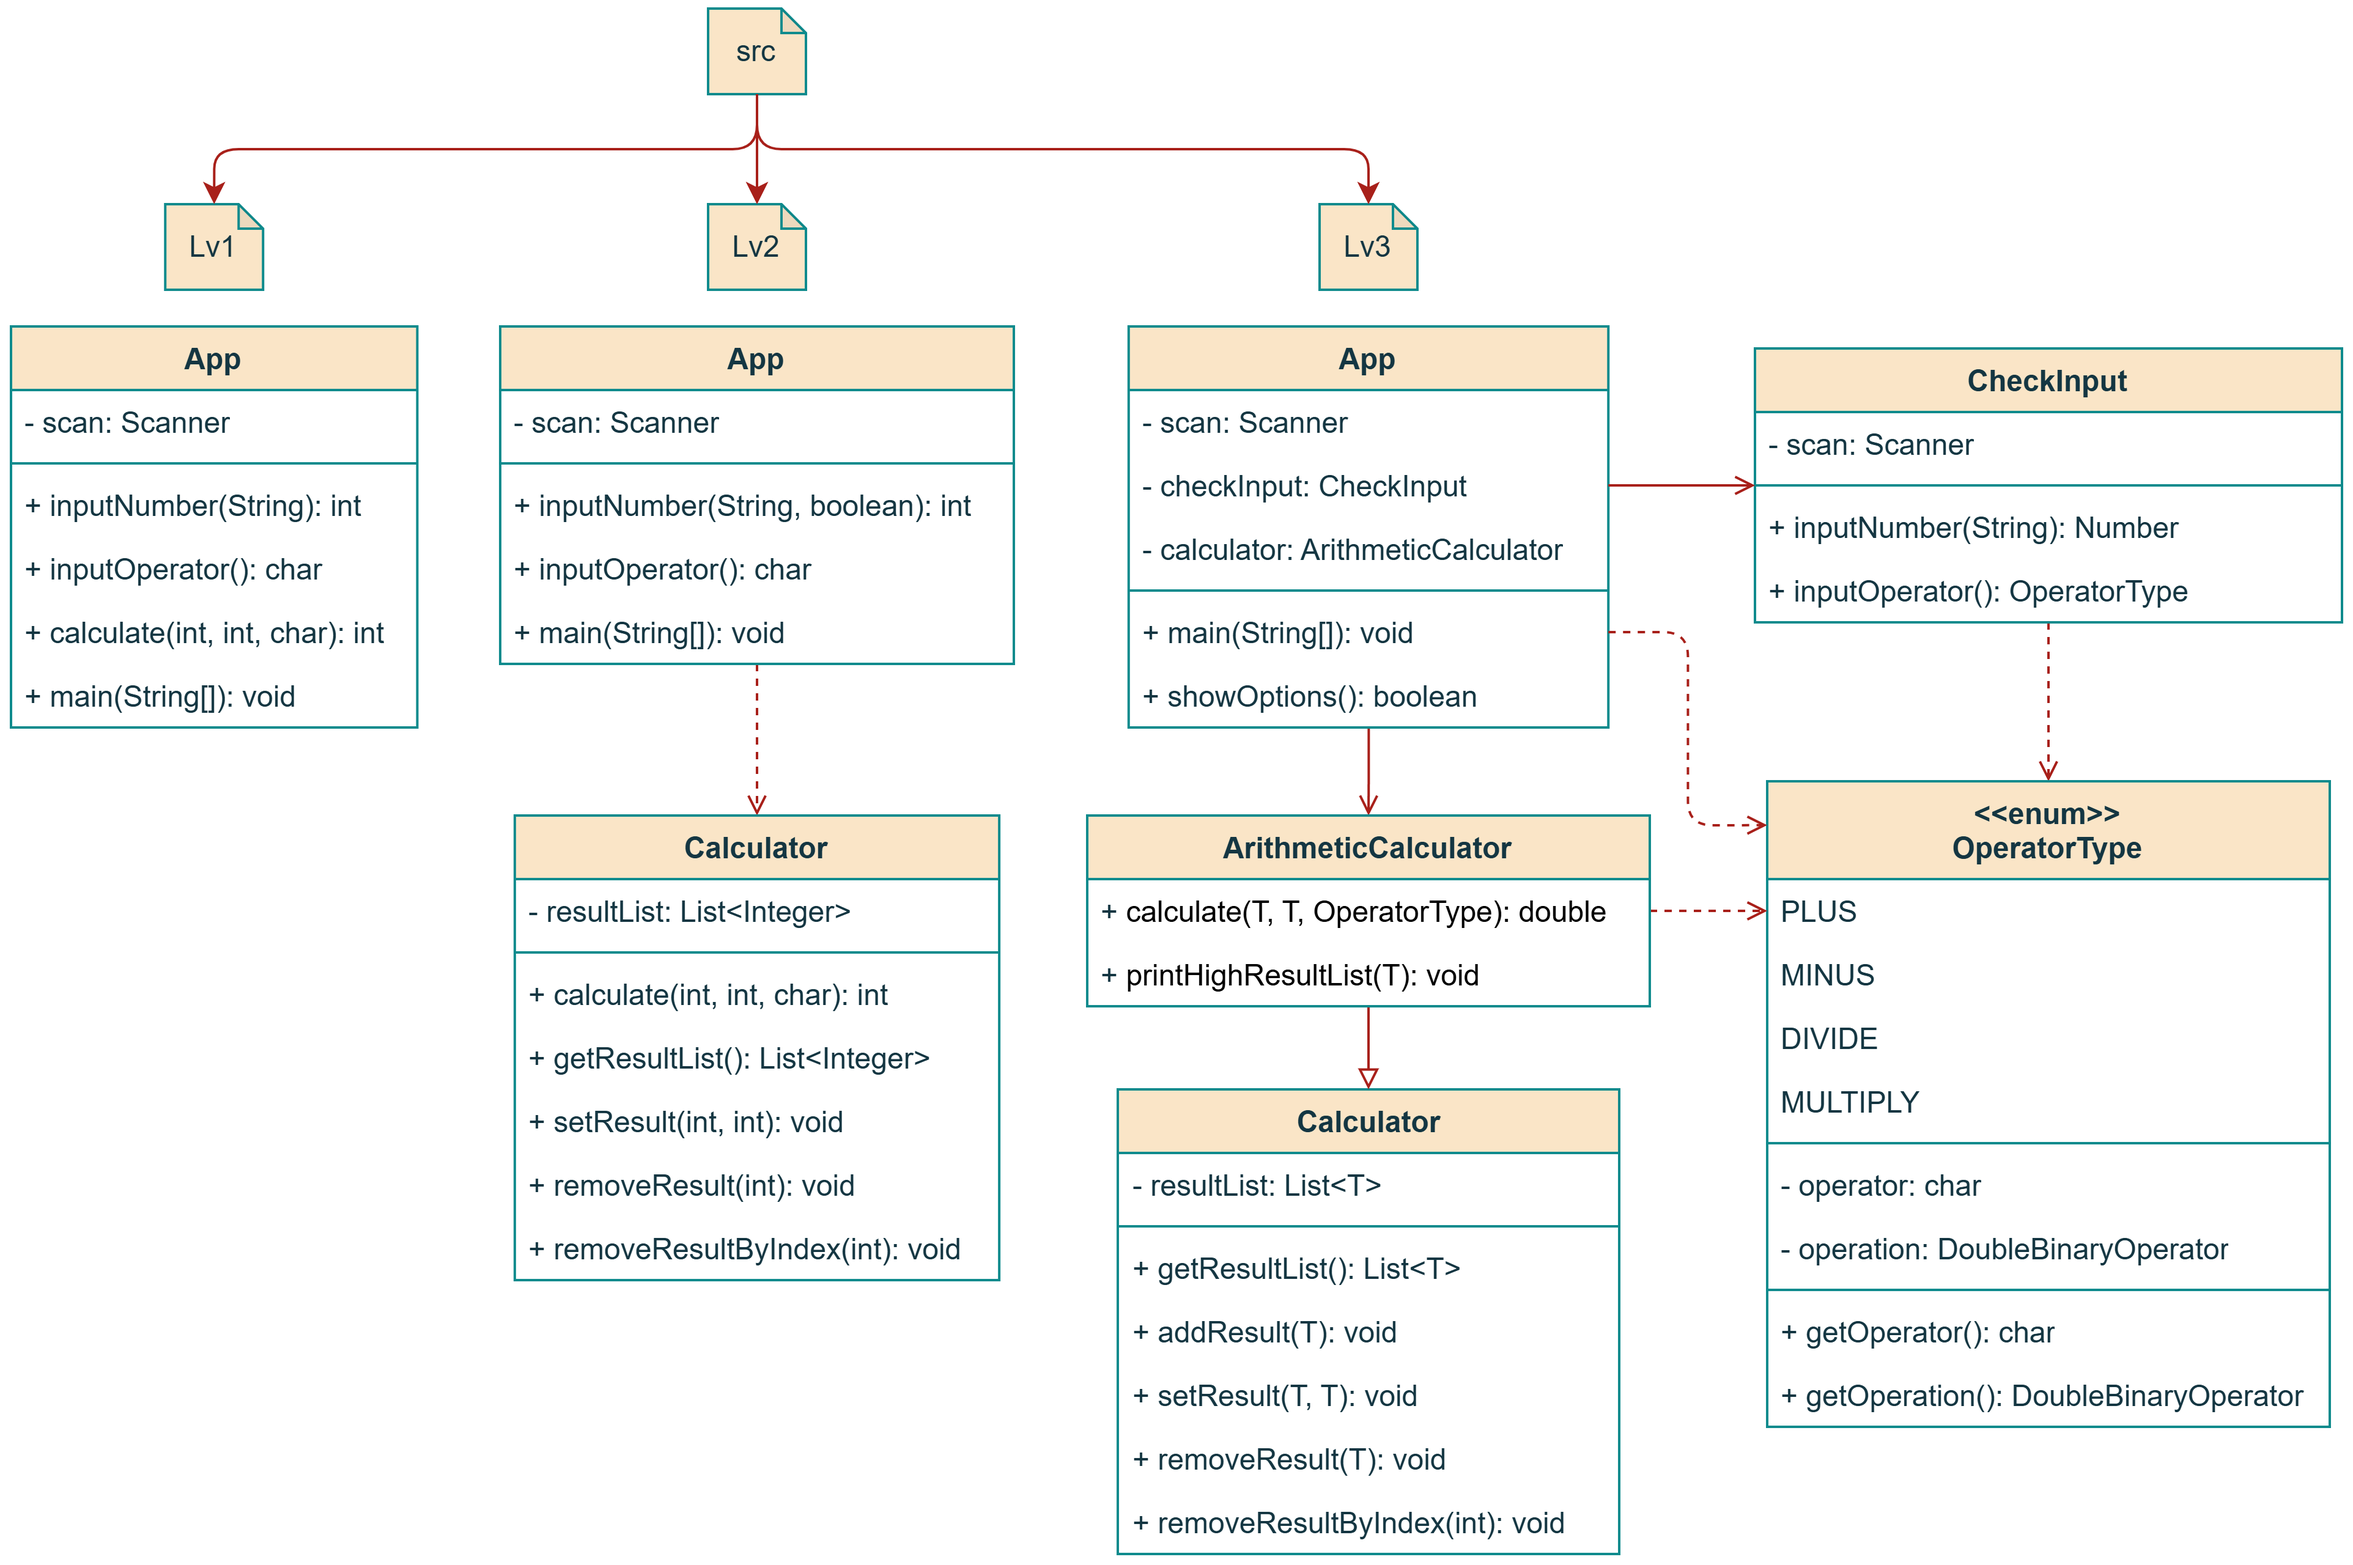
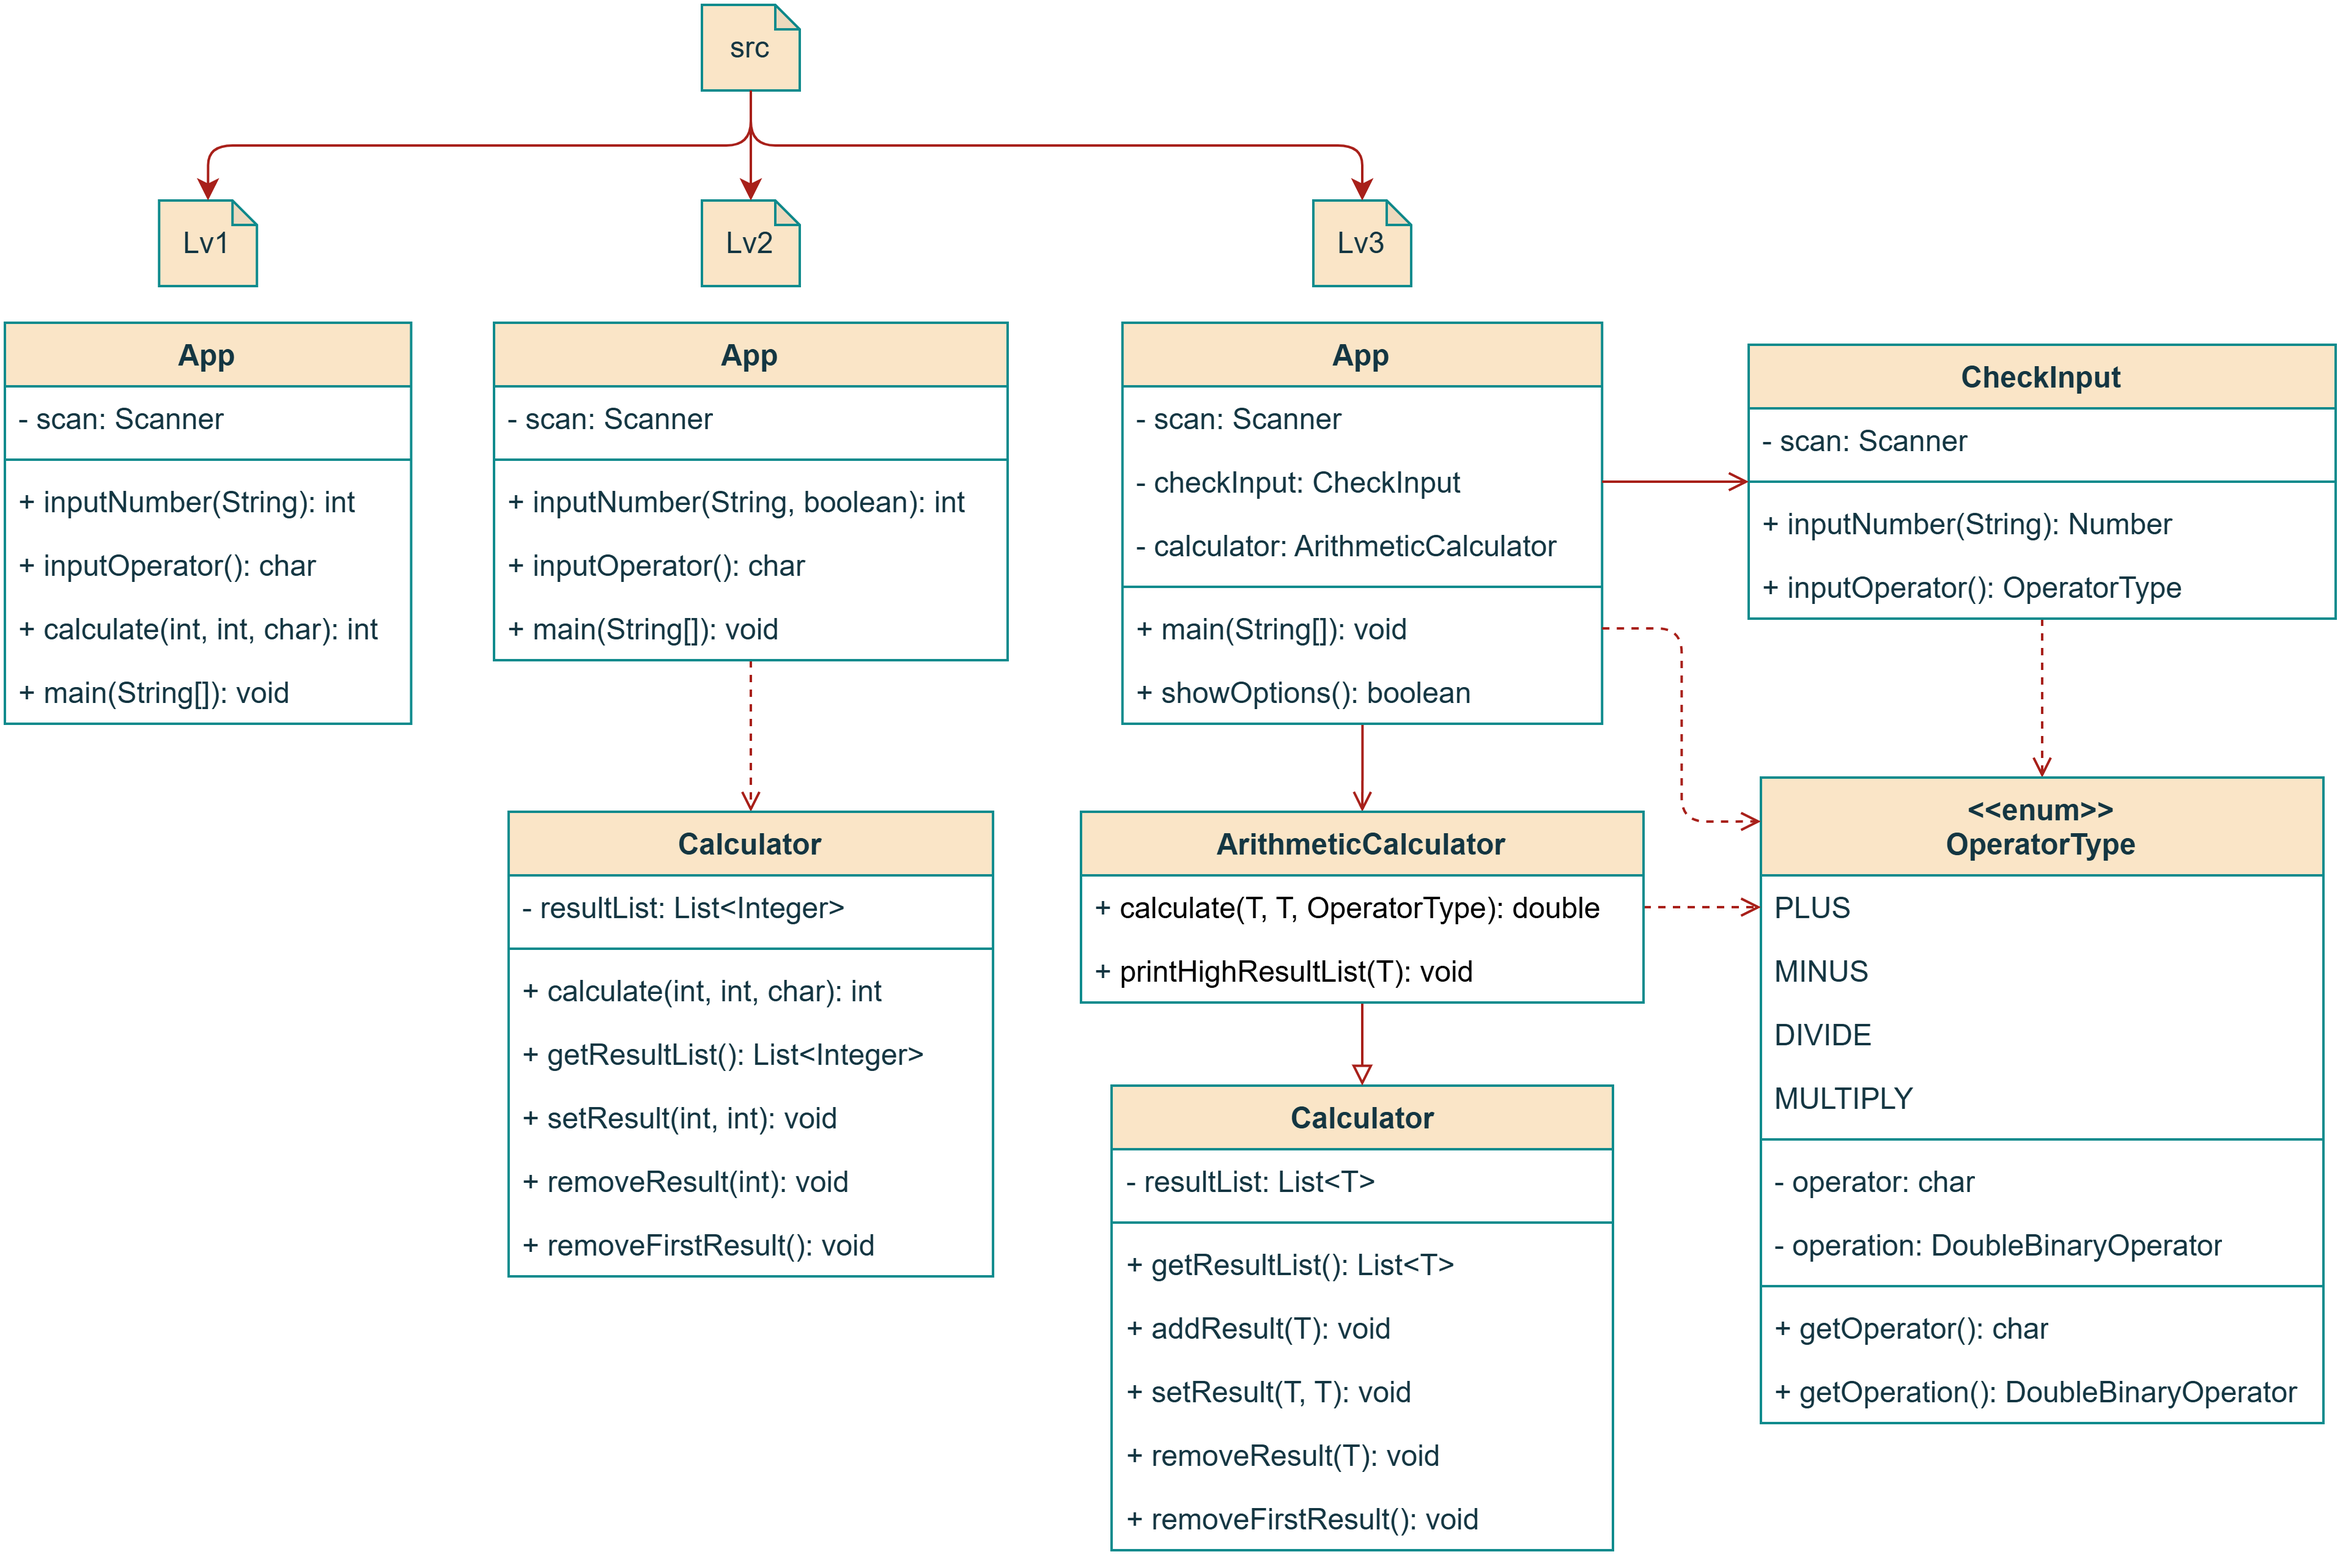
:memo: docs(README): first 기능 설명 추가 및 변경

diff --git a/README.md b/README.md
@@ -22,7 +22,7 @@
 4. `exit`를 입력하기 전까지 무한으로 계산을 진행된다.
     - 아무것도 입력 안 하면 계속 계산을 진행된다.
     - 추가 기능은 3가지다. 이를 수행하는 동안 계속 반복된다.
-    - `show`는 결과 확인하기, `set`는 결과 변경하기, `remove`는 결과 삭제하기 기능
+    - `show`는 결과 확인하기, `set`는 결과 변경하기, `remove`는 결과 삭제하기, `first`는 가장 먼저 저장된 결과 삭제하기 기능
 
 ### 요구사항
 - `Lv1`
@@ -30,12 +30,16 @@
     - `charAt(0)`을 사용하여 **사칙연산 기호**(+,-,*,/)를 입력받는다.
     - `if` or `switch`를 사용해서 **각 연산자에 맞는 연산**을 수행한다.
     - `exit` 를 입력받기 전까지 **반복적으로 계산기 기능을 수행**한다.
+
+
 - `Lv2`
     - `Calculator` 클래스를 생성해서, 사칙연산을 수행한 후, **결과값을 반환하는 메서드** 구현한다.
     - `Calculator` 클래스에서 **연산 결과를 저장하는 컬렉션 타입 필드**를 생성한다.
     - `App` 클래스의 `main` 메서드에 `Calculator` 클래스가 활용돼야 한다.
     - `Calculator` 클래스의 **캡슐화**로, **간접 접근**을 통해 값을 **가져오고, 수정하고, 삭제한다.**
       - 가장 먼저 저장된 데이터를 삭제하는 기능을 가진 메서드를 구현해야 한다.
+
+
 - `Lv3`
     - `Enum` 타입을 활용하여 **연산자 타입에 대한 정보를 관리**한다.
     - **`double` 타입의 값**을 전달 받아도 연산이 수행되도록 한다.
@@ -55,20 +59,23 @@
     - inputNumber : 숫자를 입력할 때까지 입력받고, `Number`형으로 반환한다.
     - inputOperator : `+,-,*,/` 일 때까지 입력받고, `OperatorType`형으로 반환한다.
 
+
 - **OperatorType** : 사칙연산 기호를 관리하는 Enum
     - getOperator : `char`형 기호를 반환한다.
     - getOperation : `DoubleBinaryOperator`형 연산식을 반환한다.
 
+
 - **ArithmeticCalculator** : 기본 계산기 클래스를 상속받아, 연산을 진행하는 클래스
     - calculate : 사칙연산을 진행한 뒤 `double`형으로 반환한다.
     - printHighResultList : 저장된 연산 결과들 중, 현재 입력값보다 큰 결과값들을 출력한다.
+
 
 - **Calculator** : 기본 계산기 클래스
     - getResultList : 연산 결과 리스트 `resultList`를 반환한다.
     - addResult : 결과값을 `resultList`에 저장한다.
     - setResult : `resultList`의 요소를 변경한다.
     - removeResult : `resultList`의 요소를 삭제한다.
-    - removeResultByIndex : `resultList`의 요소를 인덱스로 찾아서 삭제한다.
+    - removeFirstResult : `resultList`의 첫번째 요소를 삭제한다.
 ---
 ## 실행 화면
 클래스를 활용한 계산기 `Lv3`
